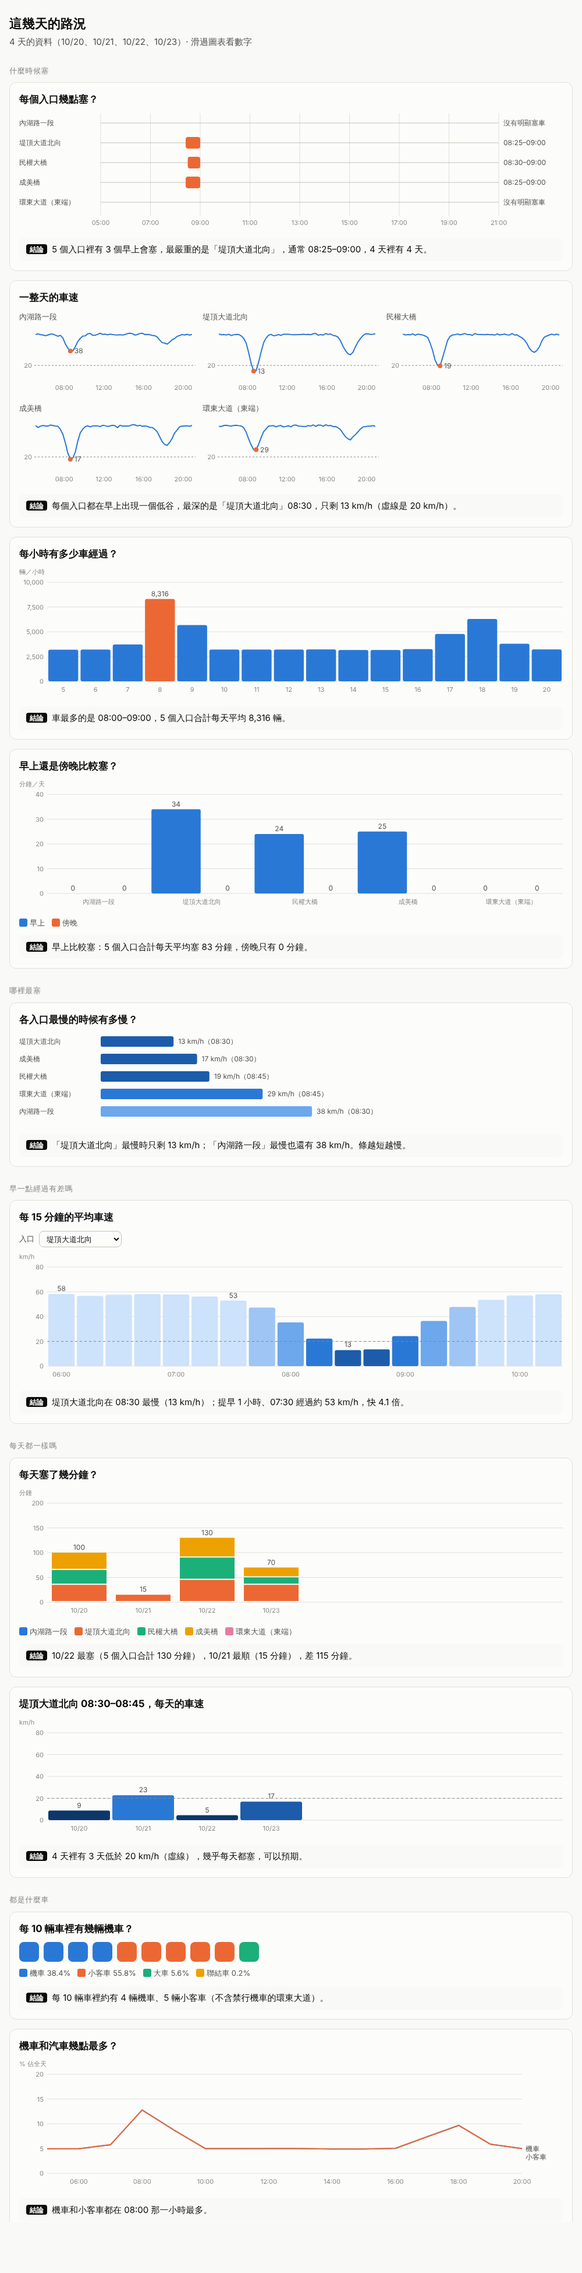
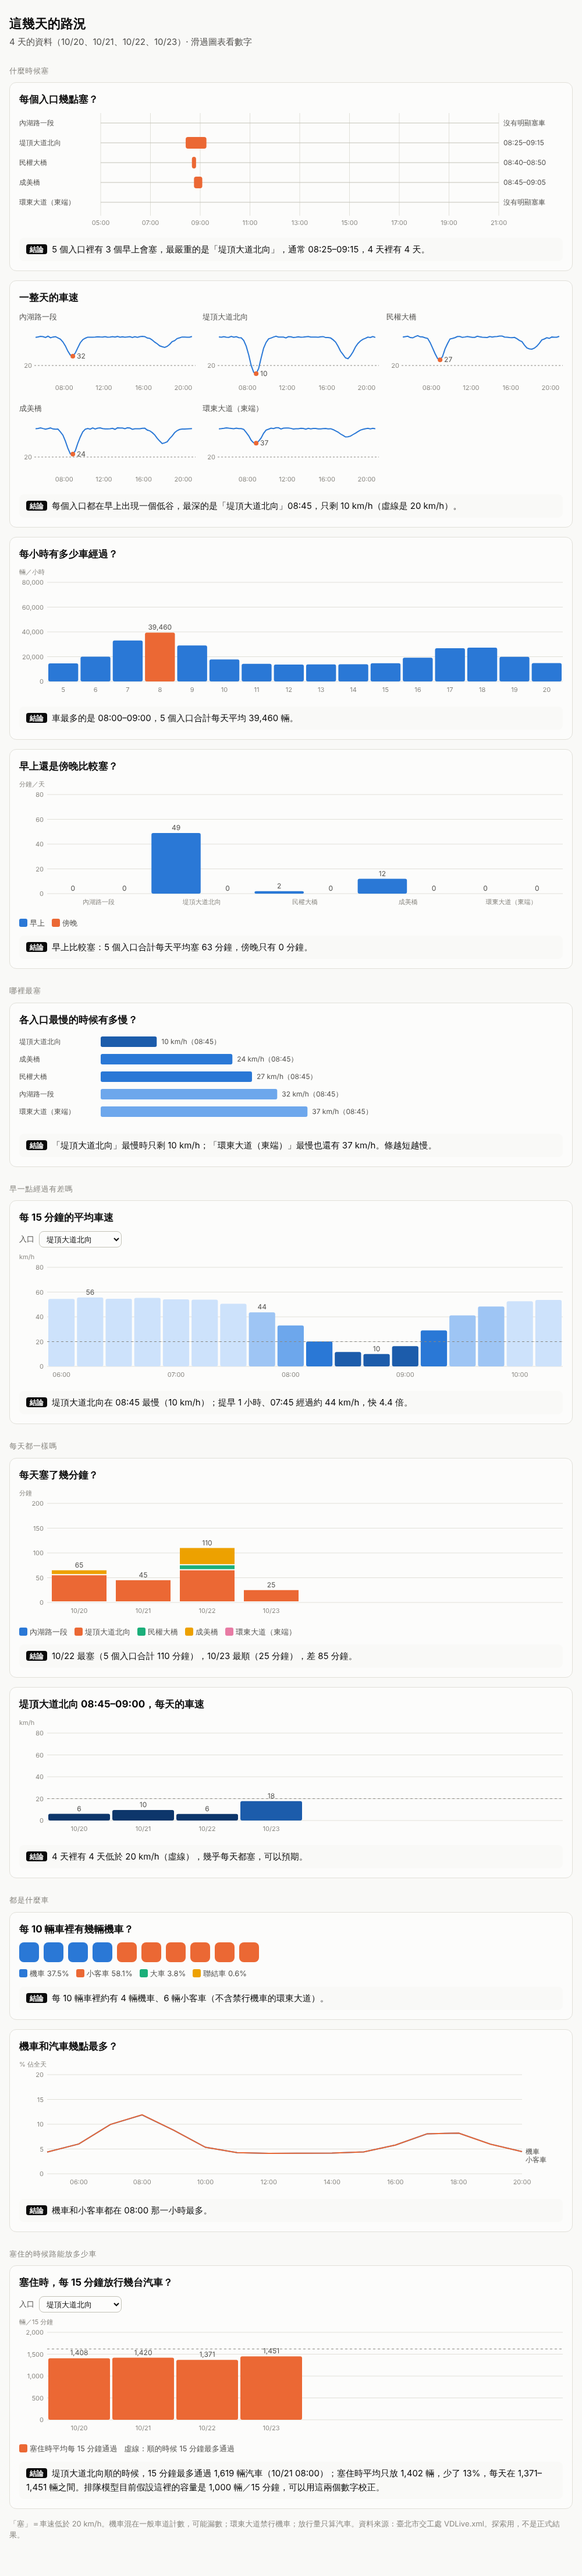
探索圖表加第 11 張「塞住時每 15 分鐘放行幾台汽車」；紅燈滑手機點子記進比賽後再做
- explore_vd.py：每天塞住（低於 20 km/h）的 15 分鐘平均通過幾台汽車，對照順的時候最多通過多少；
  堤頂大道另外對照排隊模型假設的容量 1,000 輛，可拿來校正
- docs/phone-distraction/：研究整理、VD 能看出什麼與看不出什麼、排隊模型的情境試算、題目公布後怎麼用
- PRODUCT.md 比賽後再做、README、探索圖表說明與示意截圖（模擬資料）跟著更新

Claude-Session: https://claude.ai/code/session_01BBnbdGyv229GHPyGLGFcWw

diff --git a/data/processed/explore_vd.py b/data/processed/explore_vd.py
@@ -9,6 +9,7 @@
  早一點經過有差嗎：每 15 分鐘的平均車速（可切換入口）
  每天都一樣嗎：每天塞了幾分鐘、最塞的 15 分鐘每天的車速
  都是什麼車：每 10 輛車的車種、機車和汽車幾點最多
+ 塞住的時候路能放多少車：每天塞住時每 15 分鐘通過的汽車數，對照順的時候最多通過多少
 「塞」的定義：車速低於 20 km/h；塞車時刻表另要求連續至少 2 筆讀數。
 """
 import json
@@ -21,6 +22,8 @@ from preview_vd import DEFAULT_CSV, MAIN, ROOT, STYLE, VEH, load
 OUT = ROOT / "raw" / "explore.html"
 BAD = 20
 AM, PM = (6 * 60, 11 * 60), (15 * 60, 21 * 60)
+CARS = ("vol_S", "vol_L", "vol_T")  # 放行量只算汽車：排隊模型以汽車計，機車在混合車道可能漏數
+MODEL_VD, MODEL_CAP = "VPMSV40", 1000  # 排隊模型的瓶頸與目前假設的容量（輛／15 分鐘），見 data/mock/gen_t4_morning.py
 BARS = (6 * 60, 10 * 60 + 30)  # 「早一點經過有差嗎」的時段
 
 
@@ -124,9 +127,26 @@ def build(rows):
     allc = sum(tot.values()) or 1
     mix = [[label, round(tot[k] / allc * 100, 1)] for k, label in VEH]
 
+    # 塞住的時候路能放多少車：每天每 15 分鐘通過的汽車數（少於 2 筆讀數的格子不算，缺 1 筆時按比例補成 15 分鐘）。
+    # 順的時候最多通過多少，是這條路的上限；塞住時（車速低於 BAD）的通過量，是排隊實際消化的速度
+    flow = {}
+    for v in ents:
+        top, jam = None, {}
+        for d, pts in sorted(by[v].items()):
+            for b, ps in sorted(by_bin(pts).items()):
+                if len(ps) < 2:
+                    continue
+                n = round(sum(c[k] for _, _, c in ps for k in CARS) * 3 / len(ps))
+                if weighted(ps) < BAD:
+                    jam.setdefault(d, []).append(n)
+                elif not top or n > top[0]:
+                    top = [n, d, b]
+        flow[v] = dict(top=top, days=[[d, round(sum(ns) / len(ns)), len(ns), min(ns), max(ns)] for d, ns in jam.items()],
+                       avg=round(sum(sum(ns) for ns in jam.values()) / sum(len(ns) for ns in jam.values())) if jam else None)
+
     return dict(names=names, ents=ents, worst=worst, worst_bin=wb, bad=BAD, days=days, timetable=timetable,
                 minutes=minutes, curve=curve, bars=bars, daily={v: dict(x) for v, x in daily.items()},
-                jam_by_day=jam_by_day, hourly=hourly, mix=mix)
+                jam_by_day=jam_by_day, hourly=hourly, mix=mix, flow=flow, model_vd=MODEL_VD, model_cap=MODEL_CAP)
 
 
 PAGE = r"""<!doctype html>
@@ -162,7 +182,10 @@ __STYLE__
 <section class="card"><h2>每 10 輛車裡有幾輛機車？</h2><div class="pict" id="c9"></div><div class="legend" id="l9"></div><p class="say" id="s9"></p></section>
 <section class="card"><h2>機車和汽車幾點最多？</h2><div class="scroll"><svg id="c10"></svg></div><p class="say" id="s10"></p></section>
 
-<p class="note">「塞」＝車速低於 20 km/h。機車混在一般車道計數，可能漏數；環東大道禁行機車。資料來源：臺北市交工處 VDLive.xml。探索用，不是正式結果。</p>
+<p class="grp">塞住的時候路能放多少車</p>
+<section class="card"><h2>塞住時，每 15 分鐘放行幾台汽車？</h2><div class="ctl">入口 <select id="pick11"></select></div><div class="scroll"><svg id="c11"></svg></div><div class="legend"><span><i class="sw" style="background:var(--s2)"></i>塞住時平均每 15 分鐘通過</span><span>虛線：順的時候 15 分鐘最多通過</span></div><p class="say" id="s11"></p></section>
+
+<p class="note">「塞」＝車速低於 20 km/h。機車混在一般車道計數，可能漏數；環東大道禁行機車；放行量只算汽車。資料來源：臺北市交工處 VDLive.xml。探索用，不是正式結果。</p>
 </main><div id="tip"></div>
 <script>
 const D = __DATA__, N = D.names;
@@ -336,6 +359,21 @@ $('pick').onchange = c6; c6();
   say('s10', pm[0] === pc[0] ? `機車和小客車都在 ${hhmm(pm[0])} 那一小時最多。` :
     `機車在 ${hhmm(pm[0])} 那一小時最多，小客車在 ${hhmm(pc[0])}；機車${pm[0] < pc[0] ? '比較早' : '比較晚'}出門。`);
 })();
+
+// 11. 塞住時每 15 分鐘放行幾台汽車（一天一根），虛線是順的時候最多通過多少
+$('pick11').innerHTML = D.ents.map(v => `<option value="${v}"${v === (D.ents.includes(D.model_vd) ? D.model_vd : D.worst) ? ' selected' : ''}>${N[v]}</option>`).join('');
+function c11() {
+  const v = $('pick11').value, f = D.flow[v], top = f.top, model = v === D.model_vd ? `排隊模型目前假設這裡的容量是 ${D.model_cap.toLocaleString()} 輛／15 分鐘，可以用這兩個數字校正。` : '';
+  if (!f.days.length) { $('c11').innerHTML = '';
+    say('s11', `這幾天${N[v]}沒有塞住（低於 20 km/h）的 15 分鐘，量不到塞車時放行多少` + (top ? `；順的時候 15 分鐘最多通過 ${top[0].toLocaleString()} 輛汽車。` : '。') + model); return; }
+  vbars($('c11'), f.days.map(([d, n, k, lo, hi]) => [md(d), n, '--s2', `${md(d)}｜塞住的 ${k} 個 15 分鐘，平均 ${n.toLocaleString()} 輛（${lo.toLocaleString()}–${hi.toLocaleString()}）`]),
+    { unit: '輛／15 分鐘', labels: f.days.map((_, i) => i), ref: top ? top[0] : null, ymax: Math.max(top ? top[0] : 0, ...f.days.map(x => x[1])) * 1.15, H: 200 });
+  const ns = f.days.map(x => x[1]), lo = Math.min(...ns), hi = Math.max(...ns), drop = top ? Math.round((1 - f.avg / top[0]) * 100) : null;
+  say('s11', (top ? `${N[v]}順的時候，15 分鐘最多通過 ${top[0].toLocaleString()} 輛汽車（${md(top[1])} ${hhmm(top[2])}）；` : `${N[v]}`) +
+    `塞住時平均只放 ${f.avg.toLocaleString()} 輛` + (drop > 0 ? `，少了 ${drop}%` : '') +
+    (ns.length > 1 ? `，每天在 ${lo.toLocaleString()}–${hi.toLocaleString()} 輛之間${hi > lo * 1.1 ? '：同樣在塞，有的天放得比較慢' : ''}。` : '。') + model);
+}
+$('pick11').onchange = c11; c11();
 </script></body></html>
 """
 

diff --git a/docs/phone-distraction/README.md b/docs/phone-distraction/README.md
@@ -1,0 +1,59 @@
+# 紅燈滑手機會讓塞車更嚴重嗎？（點子紀錄）
+
+Oct 20, 2026 · 狀態：**比賽後再做**（範圍凍結中，不做成新功能）；題目公布後若和路口、交通安全有關，再升級
+
+## 點子
+
+有些人遇到塞車或等紅燈就開始滑手機，綠燈亮了沒有馬上走，後面的車也跟著晚走。路口一次綠燈能放行的車變少，排隊就變長。
+
+## 為什麼站得住
+
+交通工程的「起步損失時間」：綠燈亮後，第一台車要幾秒才動，後面的車才跟著走。路口的容量大約是「有效綠燈秒數 × 每秒能過幾台」，所以每多浪費 1 秒，容量就少一點。以綠燈 60 秒估算：每個週期多浪費 1 秒，容量約少 1.7%；多浪費 2 秒，約少 3.3%。
+
+幾篇實地觀察研究：
+
+| 地點 | 發現 | 來源 |
+| --- | --- | --- |
+| 杭州 | 等紅燈的 2,596 位駕駛裡，36.7% 用手機、20.8% 一直用到綠燈；用到綠燈或起步時還在用的人，起步明顯變慢 | [Alagbe 等，IEEE ITS Magazine 2021](https://shi.buaa.edu.cn/ALAGBEADJEJEREMIE/en/lwcg/225894/content/33079.htm) |
+| 德州 | 紅燈時約 15% 駕駛分心，其中六成以上是手機；分心的駕駛車間距較大、浪費的總時間較長，而且忽長忽短 | [Transactions on Transport Sciences 2022](https://www.tots.upol.cz/artkey/tot-202203-0001_characterizing-technology-s-influence-on-distractive-behavior-at-signalized-intersections.php) |
+| 沙烏地阿拉伯 Dammam | 用手機讓起步損失時間多約 0.7 秒，起步後的車間距沒有明顯差別 | [Periodica Polytechnica](https://pp.bme.hu/tr/article/download/16785/9273) |
+| 法國 | 起步慢和用手機有關，尤其是打字這類要看又要按的操作 | [Huth 等，Accident Analysis & Prevention 2014](https://www.interruptions.net/literature/Huth-AccidAnalPrev14.pdf) |
+| 25 個路口、6,800 多位駕駛 | 把用手機連到起步損失時間與飽和流率（只看到摘要） | [Journal of Traffic and Transportation Engineering 2023](https://www.doaj.org/article/ac74a9865fc3483f8b89e079b8dc292b) |
+
+注意：各國的觀察研究，方法與樣本不同；沒有找到一篇直接量「手機讓整個路口容量少幾 %」的研究。環東大道是快速道路、沒有號誌，「紅燈滑手機」只適用於堤頂大道、內湖路這類有號誌的路。
+
+## 我們的資料能看出什麼
+
+臺北市 VD 每 5 分鐘只給各車種的車流量、平均車速、佔有率。沒有每台車的起步時間、沒有誰在用手機、沒有號誌時制，**所以證明不了塞車有多少是手機造成的**，也分不開事故、併線、路口回堵等其他原因。
+
+能看的是「塞住的時候，路實際每 15 分鐘放行幾台車」：車速低於 20 km/h 時量到的車流量，就是排隊被消化的速度。這已經加進探索圖表第 11 張（`data/processed/explore_vd.py`，說明見 [`docs/vd-explore/`](../vd-explore/README.md)）：
+
+- 順的時候 15 分鐘最多通過幾台汽車（HANDOVER 說的「VD 最大通過量」，容量估計的上限）
+- 塞住時平均放行幾台、每天差多少：同樣在塞，有的天放得比較慢
+
+這對核心作品有用：排隊模型的容量 1,000 輛／15 分鐘目前是假設，敏感度分析顯示它是影響結論最大的假設之一，可以拿這兩個數字校正。
+
+## 情境試算（情境假設，不是觀測）
+
+用現有排隊模型（`data/mock/gen_t4_morning.py`）改容量重跑。需求曲線與容量都還是模擬值，只看方向與大小，不能當成結論：
+
+| 容量變化 | 最長排隊 | 每台車平均排隊 |
+| --- | --- | --- |
+| 現況（1,000 輛／15 分鐘） | 616 輛 | 2.9 分鐘 |
+| −3%（大家起步慢一點） | +15% | 3.5 分鐘 |
+| +3%（大家綠燈馬上走） | −15% | 2.2 分鐘 |
+
+容量 +3% 的效果，約等於尖峰車流移出 2.5%；排隊減半需要移出約 8.6%。
+
+## 為什麼現在不做成功能
+
+依 [`PRODUCT.md`](../../PRODUCT.md#範圍凍結1019-起) 的兩個問題：
+
+1. 對應議題原文哪一句？議題 #4 講的是彈性工時、分批上班，沒有對應。
+2. 能不能幫投票的人 30 秒內看懂？可以，但「塞車是因為有人滑手機」容易被評審質疑，也有怪罪駕駛的味道。
+
+## 題目公布後，如果要用
+
+- **題目和路口、交通安全、違規有關：** 這份研究整理直接當核心素材；第 11 張圖補上「塞住時放行量」的真實數字。
+- **題目仍是 #4：** 最多在民眾版加一句，數字標「情境假設」並附來源，例如：
+  > 紅燈不滑手機、綠燈馬上走，也是幫路多擠出一點空間：每個綠燈少浪費 1 秒，路口大約多放行 2% 的車。

diff --git a/docs/vd-explore/README.md b/docs/vd-explore/README.md
@@ -4,6 +4,8 @@ Oct 19, 2026 · 狀態：**待看**，等收集到真實資料後再跑
 
 找靈感用的小任務，和作品要交什麼沒有直接關係。用 10/19–10/23 收集的臺北市 VD 資料，從幾個角度看內湖入口的路況，看看有沒有新的想法。
 
+10/20 加了第 11 張「塞住時，每 15 分鐘放行幾台汽車」，來自「紅燈滑手機會讓塞車更嚴重嗎」的點子（見 [`docs/phone-distraction/`](../phone-distraction/README.md)）；它的數字也能拿來校正排隊模型的容量假設。
+
 > 這個資料夾裡的兩張截圖都是**模擬資料**畫的，只是示意圖表長什麼樣子，數字不是真的。
 
 ## 怎麼跑
@@ -18,7 +20,7 @@ cd ~/Desktop/taipei-hackathon-2026 && git pull && python3 data/processed/explore
 - 至少要有一個完整的早上（10/20 中午後）才看得出東西；比較每天的圖要 2 天以上。
 - 另外有一頁比較原始的預覽：`python3 data/processed/preview_vd.py && open data/raw/preview.html`（熱力圖、各入口車速折線、車種比例、最新讀數）。
 
-## 10 張圖
+## 11 張圖
 
 每張圖只回答一個問題，圖下的「結論」是程式從資料自動算出來的一句話。「塞」＝車速低於 20 km/h。
 
@@ -59,6 +61,12 @@ cd ~/Desktop/taipei-hackathon-2026 && git pull && python3 data/processed/explore
 | 9 | 每 10 輛車 | 10 個方塊，顏色是車種 | 每 10 輛裡有幾輛機車、幾輛小客車 |
 | 10 | 機車和汽車幾點最多 | 兩條線：各小時佔全天的比例 | 機車和小客車的高峰各在幾點、機車是不是比較早出門 |
 
+### 塞住的時候路能放多少車
+
+| # | 圖 | 怎麼看 | 結論會寫什麼 |
+| --- | --- | --- | --- |
+| 11 | 塞住時，每 15 分鐘放行幾台汽車 | 一天一根，可以切換入口（預設堤頂大道）：當天塞住（低於 20 km/h）的 15 分鐘平均通過幾台汽車；虛線是順的時候 15 分鐘最多通過幾台 | 順的時候最多通過幾台、塞住時平均放幾台、少幾 %、每天差多少；堤頂大道另外對照排隊模型假設的容量 1,000 輛 |
+
 ## 看的時候可以想的問題
 
 - 塞車時段每天固定嗎？固定的話，錯峰建議比較有把握。
@@ -66,10 +74,12 @@ cd ~/Desktop/taipei-hackathon-2026 && git pull && python3 data/processed/explore
 - 傍晚也塞嗎？如果比早上輕很多，代表上班時間比下班時間集中。
 - 同一個時段有時順、有時塞嗎（圖 8）？開車的人怕的通常是「不知道今天會不會特別慢」。
 - 機車是不是比汽車早出門？尖峰時大車多不多？
+- 堤頂大道塞住時，每 15 分鐘實際放行幾台？和排隊模型假設的 1,000 輛差多少？同樣在塞，有沒有哪幾天放得特別慢（圖 11）？
 
 ## 要注意
 
 - 機車混在一般車道計數，可能有漏數；環東大道禁行機車，圖 9、10 不含它。
+- 圖 11 只算汽車（小客車、大車、聯結車），和排隊模型一樣；某個 15 分鐘少於 2 筆讀數就不算，缺 1 筆時按比例補成 15 分鐘。放行量看得出塞住時路放得多快，但看不出原因（手機、事故、併線、路口回堵都有可能）。
 - 民權大橋、成美橋的偵測器在引道上，不在橋上（見 `data/processed/README.md`）。
 - 資料只有 10/19 晚上到 10/23（4 個完整的早上），結論是「這幾天看到的」，不是長期規律。
 

diff --git a/data/processed/README.md b/data/processed/README.md
@@ -60,7 +60,7 @@
 - `entrances_detail.csv`：每個入口的 LinkID、座標、偵測方向、偵測車道數、3 次即時抽樣結果、對應依據與信心。
 - `build_vd_15min.py`：把收集程式的讀數（`vd_taipei_targets.csv`）彙整成熱力圖的 15 分鐘格子，輸出 `vd_15min.json`：每支偵測器 × 每格的多天平均、最小、最大、天數、低於 20 km/h 的天數。只用狀態正常的讀數，同一筆不重複計算，車速依車輛數加權。接著用 `gen_t4_morning.py --real` 產生正式資料檔，見 `data/mock/README.md`。
 - `preview_vd.py`：收集期間隨時可以跑的預覽。讀 `data/raw/vd_taipei_targets.csv`，產生 `data/raw/preview.html`（含真實資料，不進 git），用瀏覽器打開就能看熱力圖、各入口車速折線、車種比例與最新讀數，不需要網路。
-- `explore_vd.py`：探索用的圖表（找靈感，不是作品畫面），產生 `data/raw/explore.html`。10 張圖分成什麼時候塞、哪裡最塞、早一點經過有差嗎、每天都一樣嗎、都是什麼車，每張圖下附一句從資料算出的結論。
+- `explore_vd.py`：探索用的圖表（找靈感，不是作品畫面），產生 `data/raw/explore.html`。11 張圖分成什麼時候塞、哪裡最塞、早一點經過有差嗎、每天都一樣嗎、都是什麼車、塞住的時候路能放多少車，每張圖下附一句從資料算出的結論。第 11 張的放行量可以拿來校正排隊模型的容量假設。
 - `build_entrances.py`：重跑腳本。先下載 `VD.xml` 與 `VDLive.xml`，再執行 `python3 data/processed/build_entrances.py <下載資料夾> data/processed VDLive.xml [更多 VDLive 檔]`。
 
 ## 待確認

diff --git a/PRODUCT.md b/PRODUCT.md
@@ -37,7 +37,7 @@ Oct 19, 2026 · 給沒參加 10/18 討論的成員
 
 - **不再加新功能。** 只有兩種例外：補上議題原文點名、但還沒做到的部分（國道資料、營運面的好處）；或修正會讓數字被質疑的地方。
 - **新點子先問兩題：** 它對應議題原文的哪一句？能不能幫投票的人 30 秒內看懂？兩題都答不出來就不做，記到下面的「比賽後再做」。
-- **比賽後再做：** 從家門口算起的全程時間（要國 3 資料）、雨天提醒、停車場剩餘車位、兩條路線比較、熱力圖動畫播放、點數字展開計算過程、票選週的「昨天預測 vs 實際」、現場觀眾掃碼一起錯峰、用公車量車速。
+- **比賽後再做：** 從家門口算起的全程時間（要國 3 資料）、雨天提醒、停車場剩餘車位、兩條路線比較、熱力圖動畫播放、點數字展開計算過程、票選週的「昨天預測 vs 實際」、現場觀眾掃碼一起錯峰、用公車量車速、紅燈滑手機讓起步變慢（研究與試算見 [`docs/phone-distraction/`](docs/phone-distraction/README.md)）。
 - **題目換了：** 凍結規則照用，上面的對照表換成新題目的原文重寫一次。
 
 ## 四層結構（每個題目都一樣）

diff --git a/README.md b/README.md
@@ -12,7 +12,8 @@
 | [`ROLES.md`](ROLES.md) | 賽前分工：網站、資料、設計三人的交付物、完成標準與交接時程 |
 | [`HANDOVER.md`](HANDOVER.md) | 交接文件：競賽規則、議題 #4 對齊分析、紅隊審查、題目推測與賽前準備、資料清單 |
 | [`design/heatmap-canvas/`](design/heatmap-canvas/) | 設計範本：熱力儀表板、錯峰情境、視覺規範、結果導向的手機畫面流程，以及交通類 6 個推測題目的熱力圖、民眾與城市畫面 |
-| [`docs/vd-explore/`](docs/vd-explore/) | 探索紀錄：用收集到的 VD 資料畫的 10 張圖與說明（找靈感用，待看） |
+| [`docs/vd-explore/`](docs/vd-explore/) | 探索紀錄：用收集到的 VD 資料畫的 11 張圖與說明（找靈感用，待看） |
+| [`docs/phone-distraction/`](docs/phone-distraction/) | 點子紀錄：紅燈滑手機會不會讓塞車更嚴重，研究整理、我們的資料能看出什麼、情境試算（比賽後再做） |
 
 ## 產品結構
 
